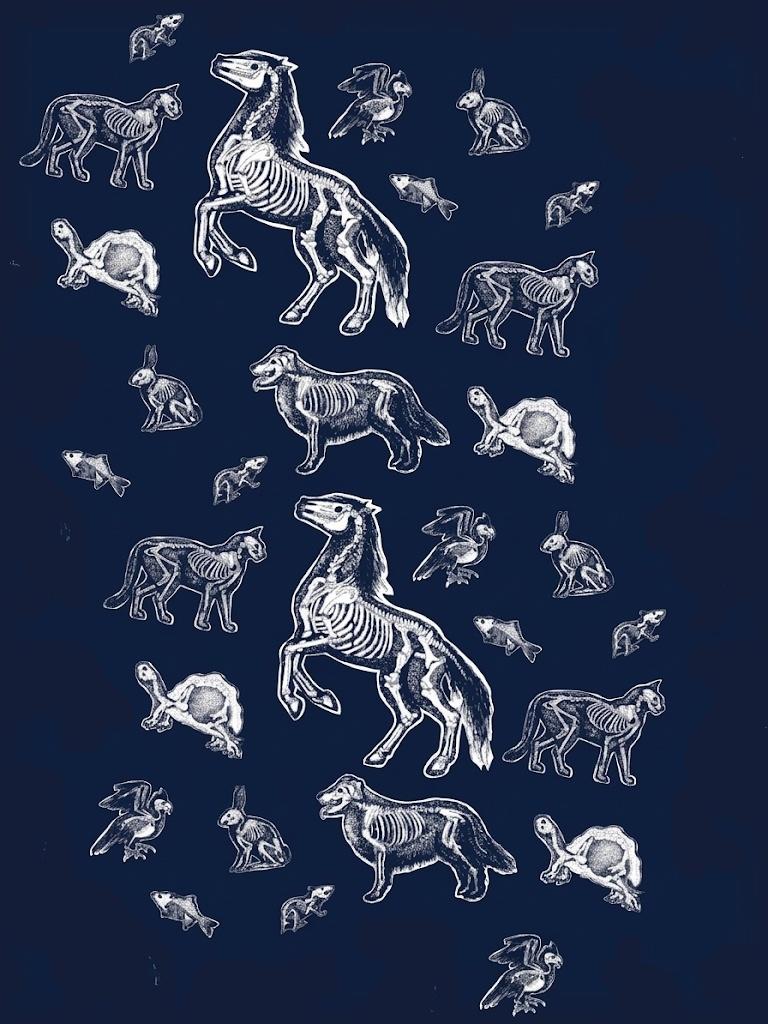
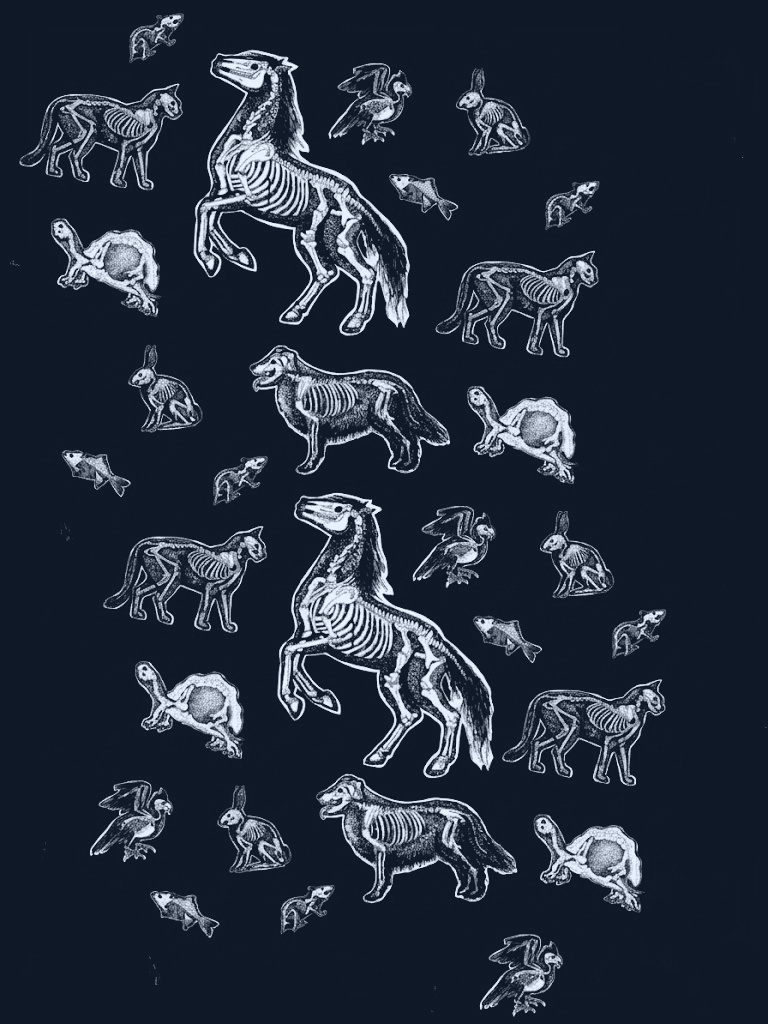
feat(ui): recolor dark wallpaper to deeper midnight navy (#0e1826) matching night building artwork

diff --git a/css/dashboard.css b/css/dashboard.css
@@ -2752,30 +2752,30 @@ html[data-theme='dark'] .roomly-theme-sun {
 [data-theme='dark'] .roomly-login-page {
   --roomly-primary: #75d1ff;
   --roomly-secondary: #5ed7ee;
-  --roomly-background: #131d38;
+  --roomly-background: #0e1826;
   --roomly-surface: #101c2c;
-  --roomly-surface-low: #111f33;
-  --roomly-surface-container: #17324c;
+  --roomly-surface-low: #0c1622;
+  --roomly-surface-container: #152538;
   --roomly-text: #edf6ff;
   --roomly-muted: #a9b9ca;
   --roomly-outline: rgba(151, 180, 211, .2);
   --roomly-on-primary: #002033;
-  --roomly-login-bg-image: url('/images/login-bg-dark.jpg');
-  --roomly-login-bg-opacity: 0.25;
-  --roomly-visual-bg: #071322;
+  --roomly-login-bg-image: url('/images/login-bg-dark.jpg?v=20260916-darknavy-1');
+  --roomly-login-bg-opacity: 0.28;
+  --roomly-visual-bg: #0b1420;
   --roomly-visual-image: url('/images/login-visual-dark.jpg?v=20260916-themed-1');
   --roomly-visual-opacity: 0.95;
   --roomly-visual-top-overlay: linear-gradient(
     to bottom,
-    rgba(5, 14, 26, 0.45) 0%,
-    rgba(5, 14, 26, 0.15) 20%,
+    rgba(11, 20, 32, 0.45) 0%,
+    rgba(11, 20, 32, 0.15) 20%,
     transparent 45%
   );
   --roomly-visual-bottom-overlay: linear-gradient(
     to top,
-    rgba(4, 11, 20, 0.96) 0%,
-    rgba(4, 11, 20, 0.82) 30%,
-    rgba(4, 11, 20, 0.35) 55%,
+    rgba(11, 20, 32, 0.96) 0%,
+    rgba(11, 20, 32, 0.82) 30%,
+    rgba(11, 20, 32, 0.35) 55%,
     transparent 75%
   );
   --roomly-visual-badge-bg: #7ec8f8;

diff --git a/ui-handoff/css/dashboard.css b/ui-handoff/css/dashboard.css
@@ -2752,30 +2752,30 @@ html[data-theme='dark'] .roomly-theme-sun {
 [data-theme='dark'] .roomly-login-page {
   --roomly-primary: #75d1ff;
   --roomly-secondary: #5ed7ee;
-  --roomly-background: #131d38;
+  --roomly-background: #0e1826;
   --roomly-surface: #101c2c;
-  --roomly-surface-low: #111f33;
-  --roomly-surface-container: #17324c;
+  --roomly-surface-low: #0c1622;
+  --roomly-surface-container: #152538;
   --roomly-text: #edf6ff;
   --roomly-muted: #a9b9ca;
   --roomly-outline: rgba(151, 180, 211, .2);
   --roomly-on-primary: #002033;
-  --roomly-login-bg-image: url('/images/login-bg-dark.jpg');
-  --roomly-login-bg-opacity: 0.25;
-  --roomly-visual-bg: #071322;
+  --roomly-login-bg-image: url('/images/login-bg-dark.jpg?v=20260916-darknavy-1');
+  --roomly-login-bg-opacity: 0.28;
+  --roomly-visual-bg: #0b1420;
   --roomly-visual-image: url('/images/login-visual-dark.jpg?v=20260916-themed-1');
   --roomly-visual-opacity: 0.95;
   --roomly-visual-top-overlay: linear-gradient(
     to bottom,
-    rgba(5, 14, 26, 0.45) 0%,
-    rgba(5, 14, 26, 0.15) 20%,
+    rgba(11, 20, 32, 0.45) 0%,
+    rgba(11, 20, 32, 0.15) 20%,
     transparent 45%
   );
   --roomly-visual-bottom-overlay: linear-gradient(
     to top,
-    rgba(4, 11, 20, 0.96) 0%,
-    rgba(4, 11, 20, 0.82) 30%,
-    rgba(4, 11, 20, 0.35) 55%,
+    rgba(11, 20, 32, 0.96) 0%,
+    rgba(11, 20, 32, 0.82) 30%,
+    rgba(11, 20, 32, 0.35) 55%,
     transparent 75%
   );
   --roomly-visual-badge-bg: #7ec8f8;

diff --git a/index.html b/index.html
@@ -15,7 +15,7 @@
   <link rel="stylesheet" href="css/styles.css?v=20260914-login-language-1">
   <link rel="stylesheet" href="modules/download/style.css">
   <link rel="stylesheet" href="ui-handoff/templates/booking/style.css?v=20260915-user-ui-2">
-  <link rel="stylesheet" href="ui-handoff/css/dashboard.css?v=20260916-login-dual-theme-2">
+  <link rel="stylesheet" href="ui-handoff/css/dashboard.css?v=20260916-darknavy-bg-1">
   <!-- Staff screens still render from templates/, which owns these styles. Kept last so
        the occurrence rules are not overridden by the member UI sheets above. -->
   <link rel="stylesheet" href="templates/booking/style.css?v=20260915-occurrences-2">

diff --git a/ui-handoff/index.html b/ui-handoff/index.html
@@ -15,7 +15,7 @@
   <link rel="stylesheet" href="css/styles.css?v=20260914-login-language-1">
   <link rel="stylesheet" href="modules/download/style.css">
   <link rel="stylesheet" href="ui-handoff/templates/booking/style.css?v=20260915-user-ui-2">
-  <link rel="stylesheet" href="ui-handoff/css/dashboard.css?v=20260916-login-dual-theme-2">
+  <link rel="stylesheet" href="ui-handoff/css/dashboard.css?v=20260916-darknavy-bg-1">
   <!-- Staff screens still render from templates/, which owns these styles. Kept last so
        the occurrence rules are not overridden by the member UI sheets above. -->
   <link rel="stylesheet" href="templates/booking/style.css?v=20260915-occurrences-2">
